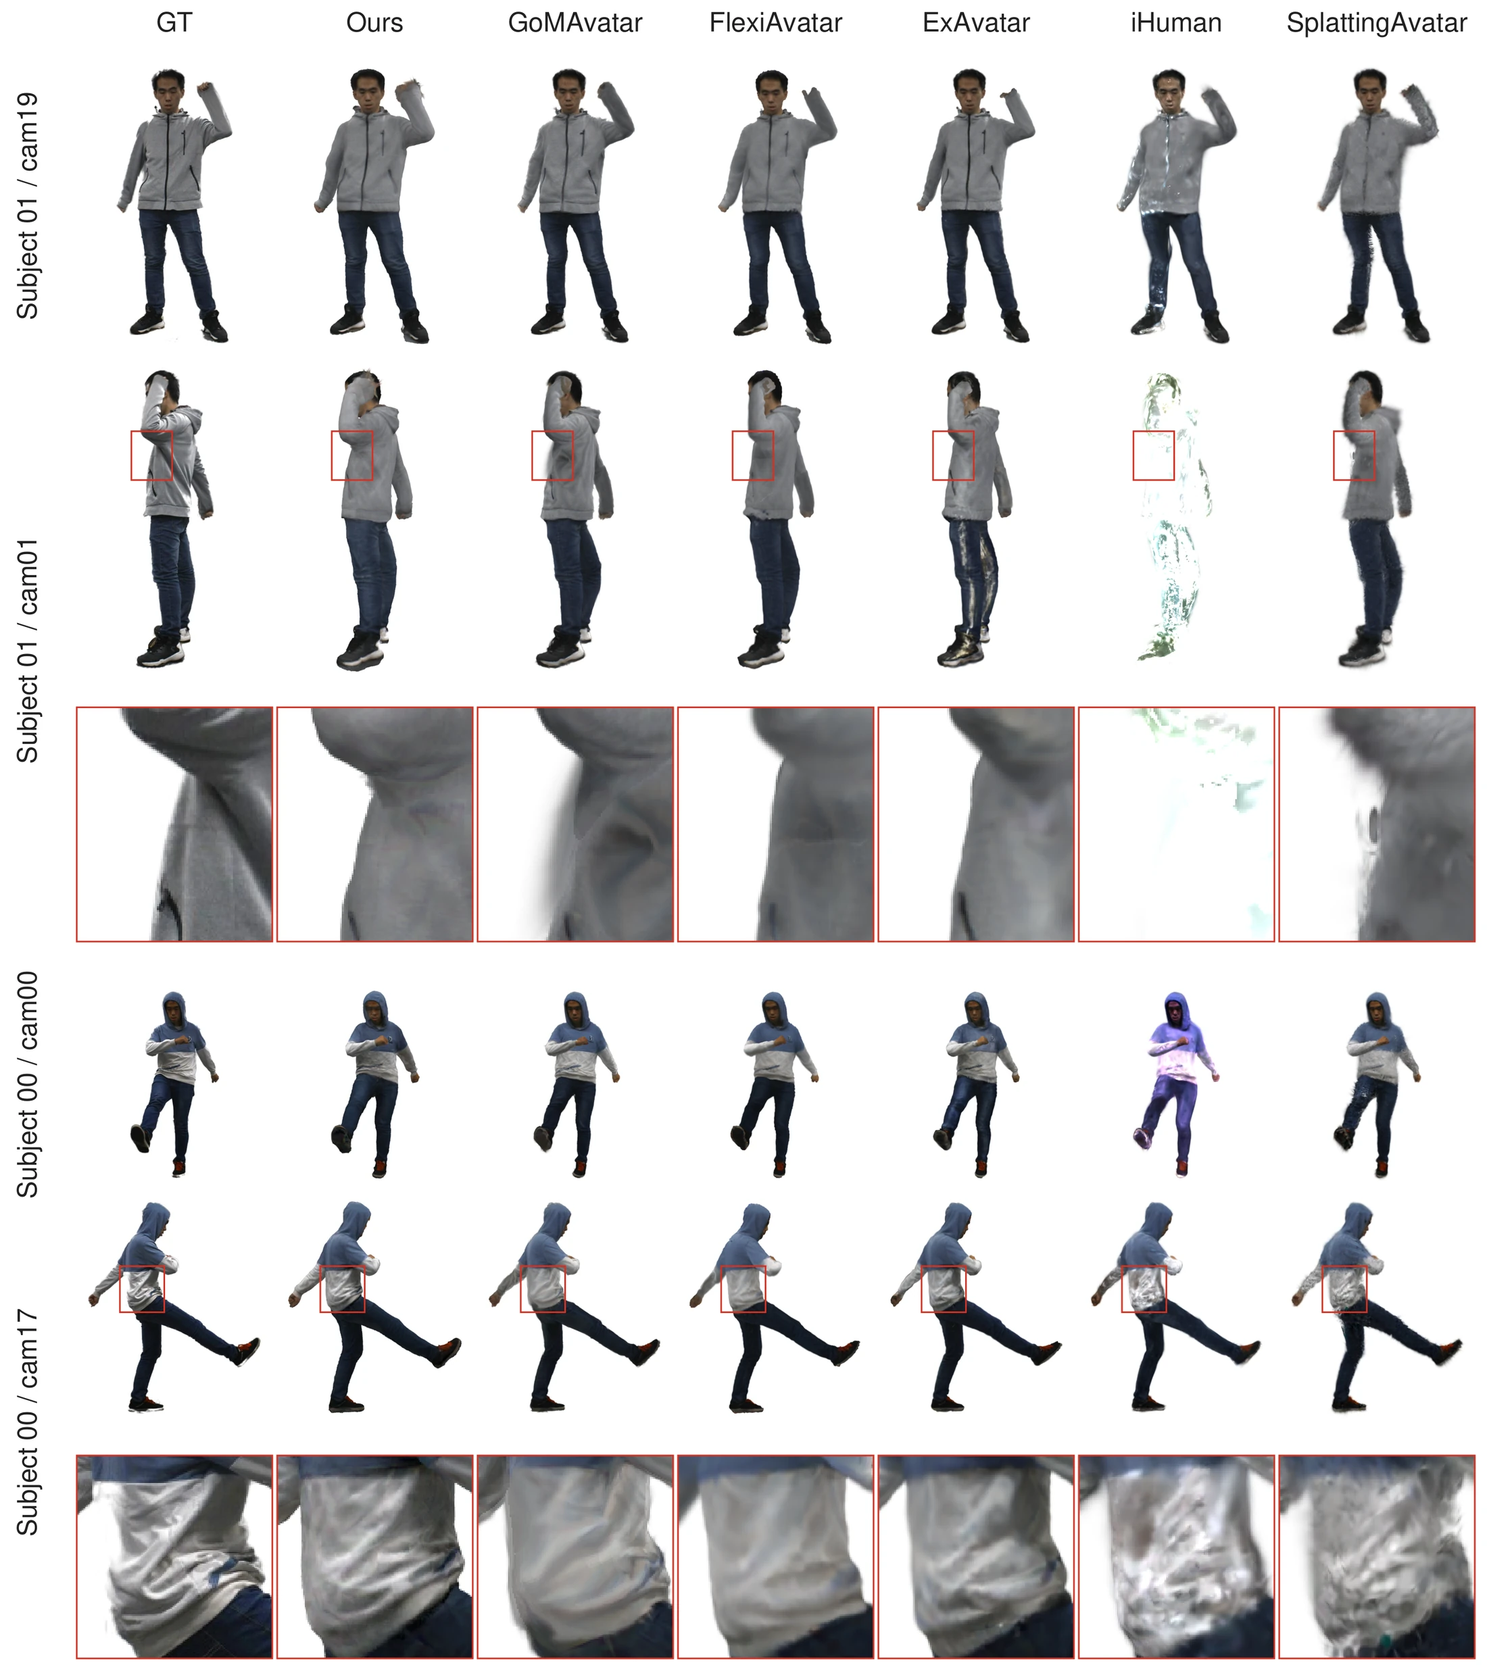
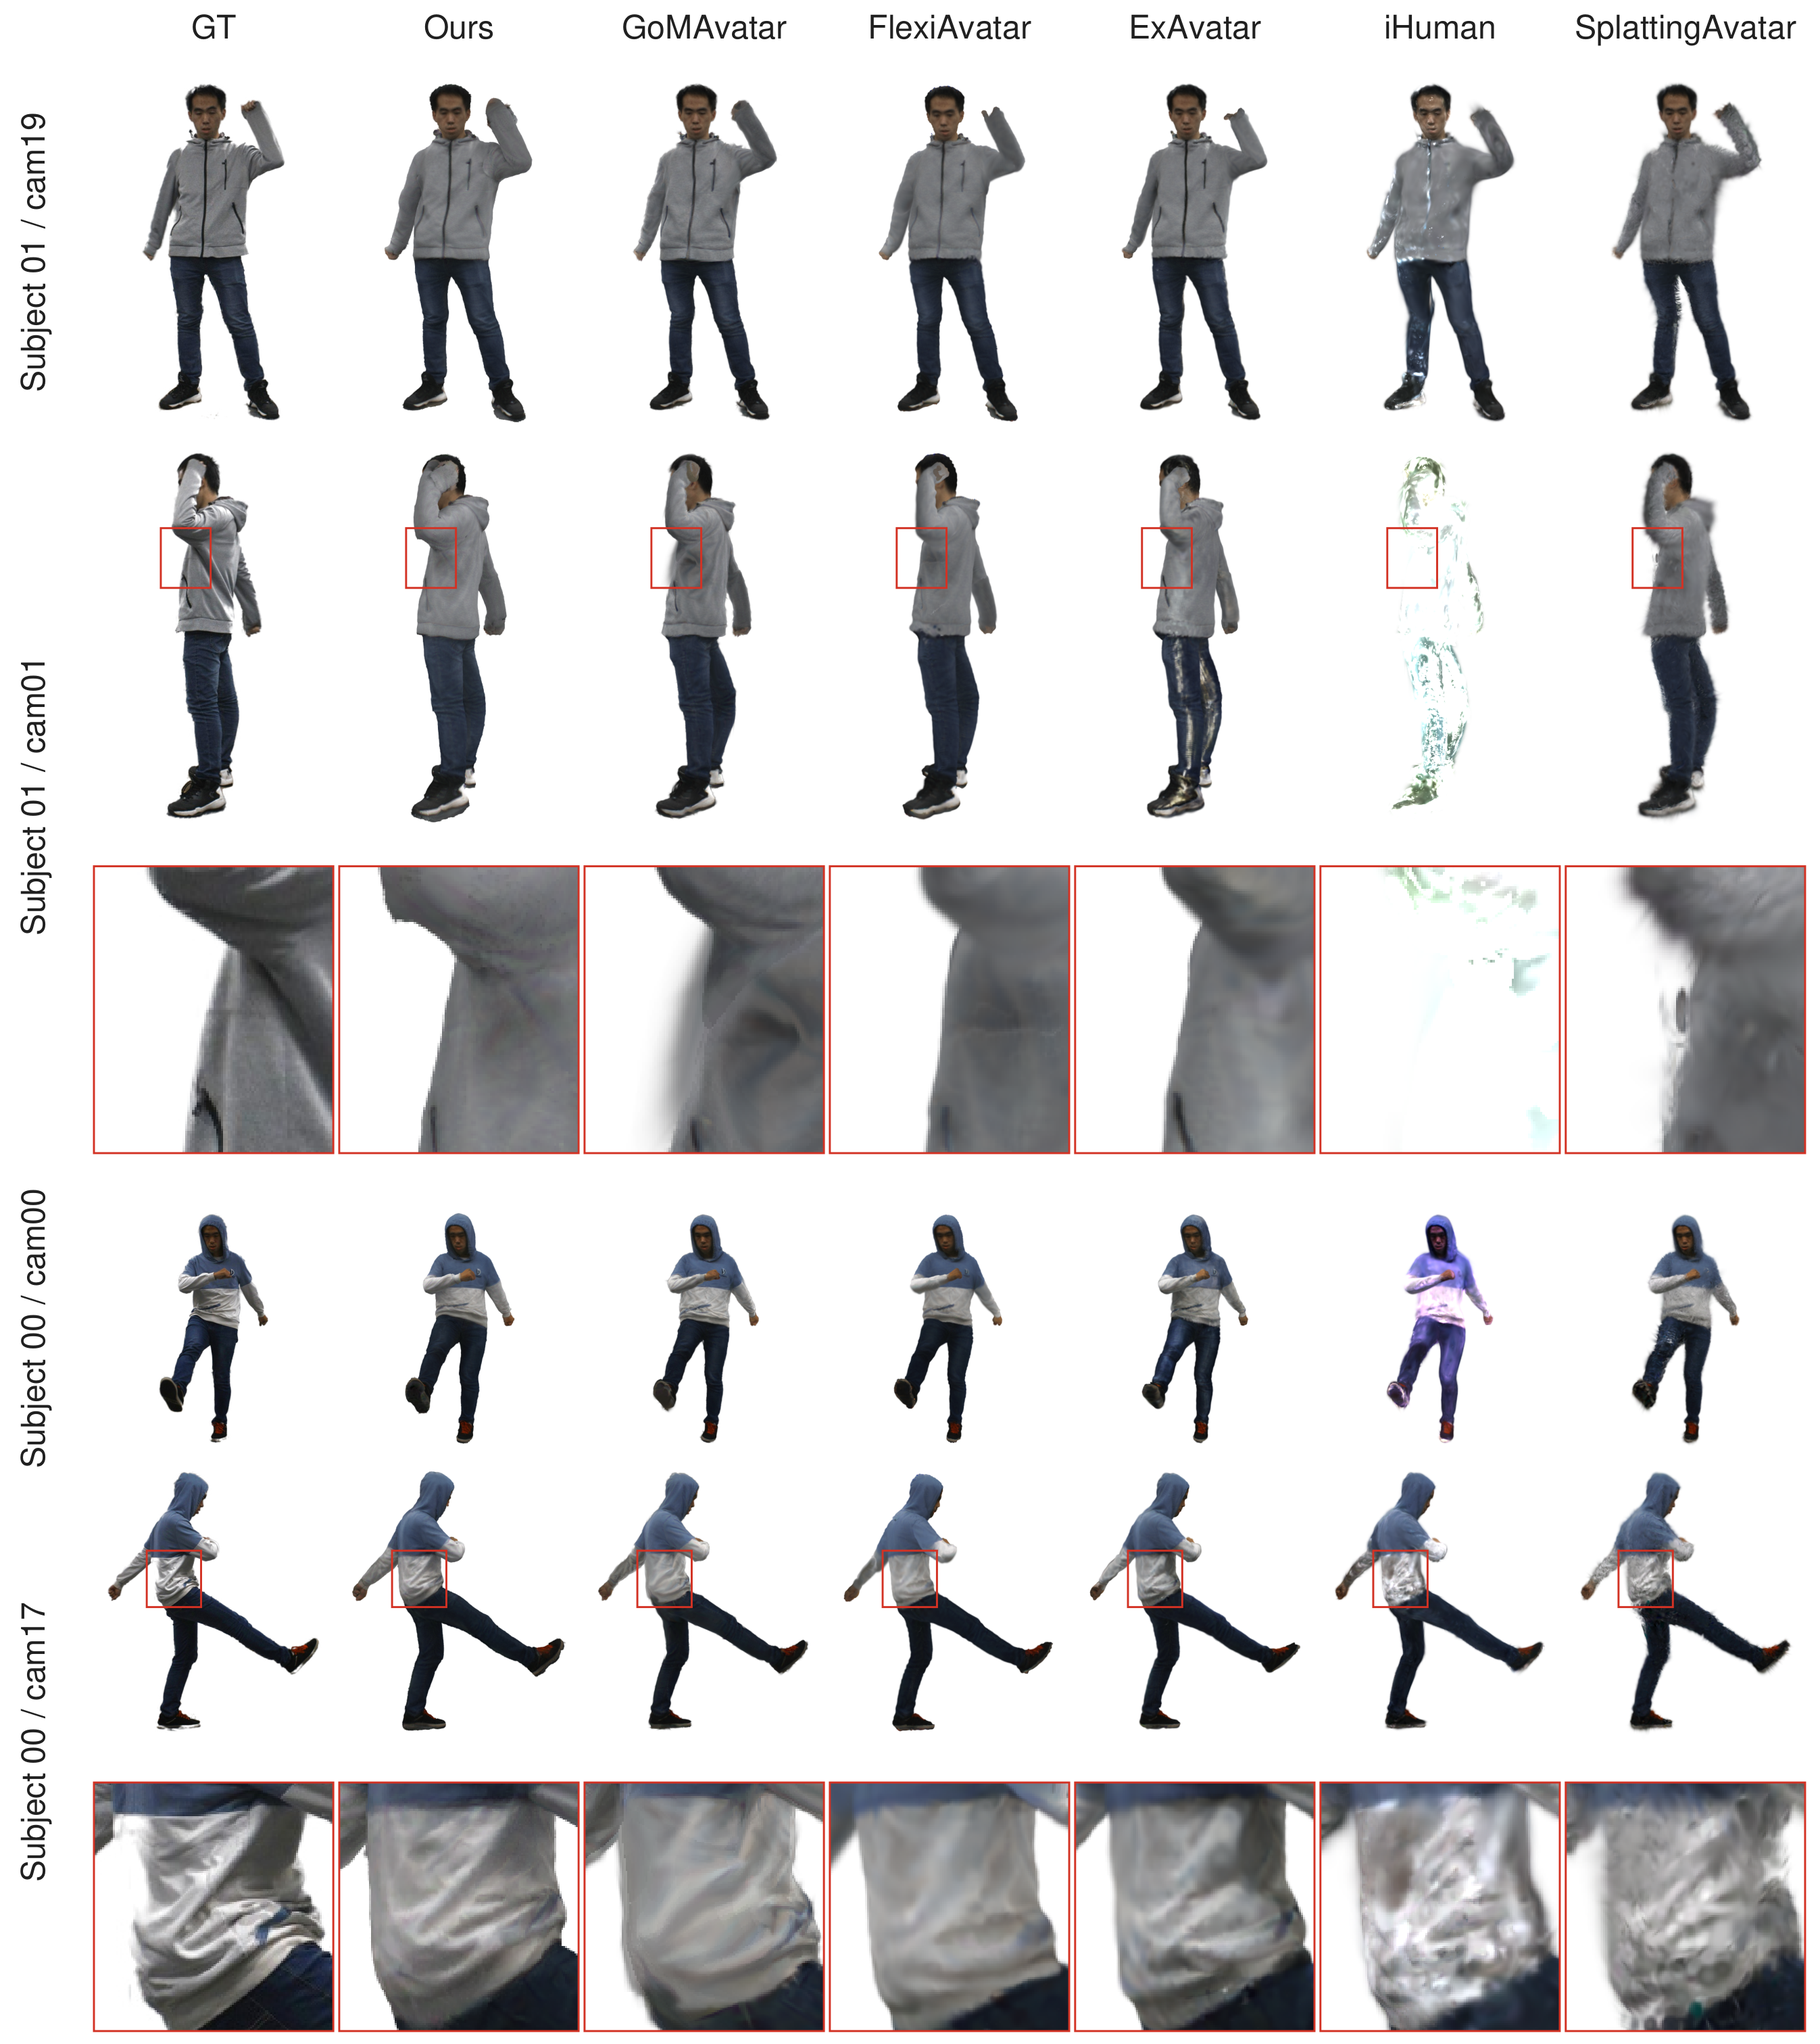
Update results figures

diff --git a/docs/index.html b/docs/index.html
@@ -139,21 +139,21 @@
         <h3>Appearance on X-Humans</h3>
         <figure class="result-figure">
           <a href="assets/appearance-xhumans.webp" target="_blank" rel="noopener" aria-label="Open the X-Humans appearance comparison at full size">
-            <img src="assets/appearance-xhumans.webp" width="2200" height="1685" loading="lazy" alt="X-Humans appearance comparison with ground truth and other methods, including enlarged clothing details.">
+            <img src="assets/appearance-xhumans.webp" width="2693" height="2063" loading="lazy" alt="X-Humans appearance comparison with ground truth and other methods, including enlarged clothing details.">
           </a>
           <figcaption>Qualitative appearance comparison on X-Humans, including close-ups of pocket stitching and waistband lettering.</figcaption>
         </figure>
         <h3>Appearance on THuman4.0</h3>
         <figure class="result-figure">
           <a href="assets/appearance-thuman.webp" target="_blank" rel="noopener" aria-label="Open the THuman4.0 appearance comparison at full size">
-            <img src="assets/appearance-thuman.webp" width="2200" height="2470" loading="lazy" alt="THuman4.0 appearance comparison from near-frontal and side views of the same pose, with ground truth and other methods.">
+            <img src="assets/appearance-thuman.webp" width="2693" height="3024" loading="lazy" alt="THuman4.0 appearance comparison from near-frontal and side views of the same pose, with ground truth and other methods.">
           </a>
           <figcaption>Qualitative appearance comparison on THuman4.0, shown from two held-out cameras.</figcaption>
         </figure>
         <h3>Geometry on X-Humans</h3>
         <figure class="result-figure">
           <a href="assets/geometry.webp" target="_blank" rel="noopener" aria-label="Open the X-Humans geometry comparison at full size">
-            <img src="assets/geometry.webp" width="2200" height="2407" loading="lazy" alt="X-Humans geometry comparison showing camera-space normals and vertex-to-ground-truth-surface error maps.">
+            <img src="assets/geometry.webp" width="2693" height="2946" loading="lazy" alt="X-Humans geometry comparison showing camera-space normals and vertex-to-ground-truth-surface error maps.">
           </a>
           <figcaption>Qualitative geometry comparison on X-Humans. Error maps encode predicted-vertex-to-ground-truth-surface distances, capped at 30 mm; ground-truth and detail views show camera-space normals.</figcaption>
         </figure>
